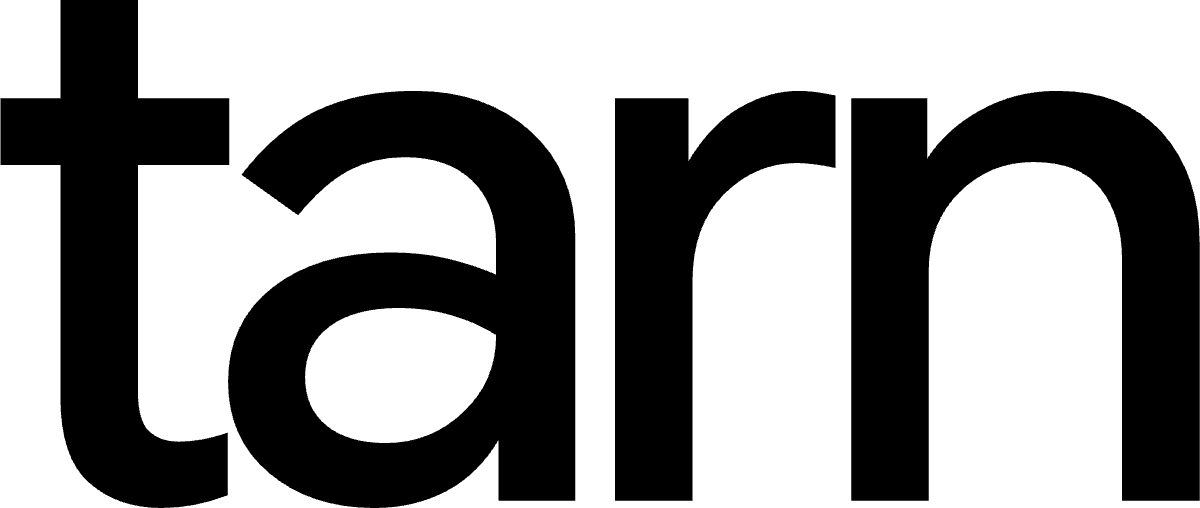
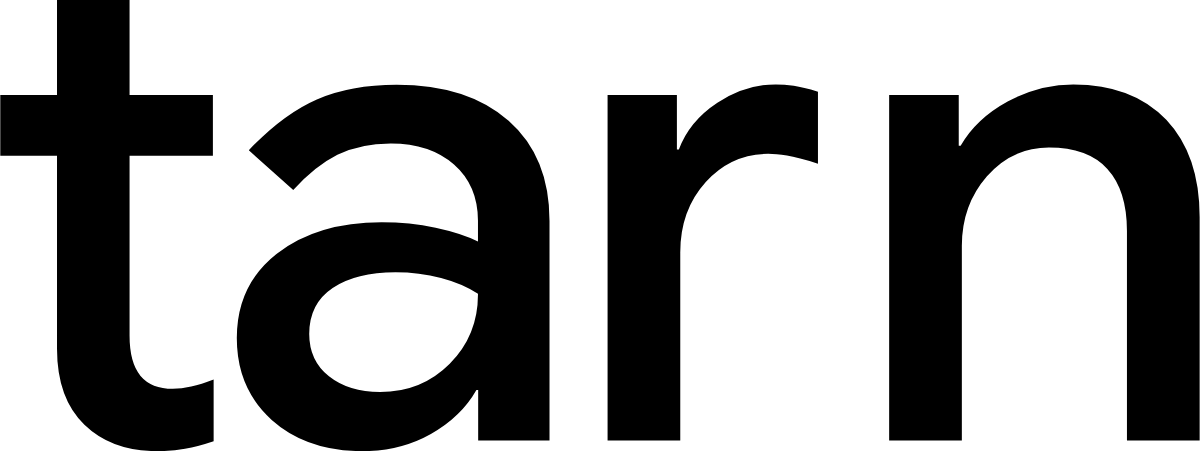
Wordmark that never reads "tam" (#22)
Wordmark: text optical size and a wider r–n gap, so it never reads "tam"

The wordmark is now drawn from Google Sans Flex at opsz 32 with +0.06em
before the n (was opsz 144, +0.012em). Blurred to simulate distance, the
old rn was nearly identical to an m (score 2.3, m vs n = 20); the new one
scores 12.8 and reads "tarn" from across the room. Same font, no tuning.

build_logo.py now also runs from the bundled font subset (glyphs by id,
only the axes the font has); it reproduces every existing asset byte for
byte. The ta mark is unchanged.

diff --git a/src/ui/wordmark.ts b/src/ui/wordmark.ts
@@ -7,12 +7,14 @@ import {html} from 'lit';
 
 // The outlined wordmark from docs/brand/assets/tarn-wordmark-mono.svg (built
 // by docs/brand/build_logo.py). Copy it from there; never retype or redraw it.
-const VIEW_BOX = '0.30 -65.40 156.60 66.35';
+const VIEW_BOX = '2.30 -65.40 178.05 66.95';
 const PATH =
-  'M21.28 0.95Q15.63 0.95 11.87 -2.35Q8.12 -5.64 8.12 -13.52V-65.4Q8.12 -65.4 8.12 -65.4Q8.12 -65.4 8.12 -65.4H18.25Q18.25 -65.4 18.25 -65.4Q18.25 -65.4 18.25 -65.4V-14.22Q18.25 -10.49 19.67 -9.1Q21.08 -7.71 23.55 -7.71Q25.03 -7.71 26.53 -7.98Q28.03 -8.24 29.97 -8.89Q29.97 -8.89 29.97 -8.89Q29.97 -8.89 29.97 -8.89V-0.71Q29.97 -0.71 29.97 -0.71Q29.97 -0.71 29.97 -0.71Q27.73 0.14 25.6 0.55Q23.48 0.95 21.28 0.95ZM0.29 -43.84Q0.29 -43.84 0.29 -43.84Q0.29 -43.84 0.29 -43.84V-52.58Q0.29 -52.58 0.29 -52.58Q0.29 -52.58 0.29 -52.58H30.18Q30.18 -52.58 30.18 -52.58Q30.18 -52.58 30.18 -52.58V-43.84Q30.18 -43.84 30.18 -43.84Q30.18 -43.84 30.18 -43.84Z ' +
-  'M49.1 0.95Q40.85 0.95 35.43 -3.57Q30.02 -8.1 30.02 -15.53Q30.02 -23.3 35.85 -27.87Q41.68 -32.43 51.2 -32.43Q55.27 -32.43 58.64 -31.63Q62.02 -30.83 65.03 -29.53V-33.58Q65.03 -38.85 61.85 -41.86Q58.67 -44.87 53.1 -44.87Q48.98 -44.87 45.69 -43.07Q42.4 -41.28 39.18 -37.28Q39.18 -37.28 39.18 -37.28Q39.18 -37.28 39.18 -37.28L31.77 -42.58Q31.77 -42.58 31.77 -42.58Q31.77 -42.58 31.77 -42.58Q36.28 -48.43 41.68 -50.98Q47.08 -53.53 54.45 -53.53Q63.7 -53.53 69.54 -48.25Q75.38 -42.97 75.38 -34.3V0Q75.38 0 75.38 0Q75.38 0 75.38 0H65.33Q65.33 0 65.33 0Q65.33 0 65.33 0V-10.33L67.5 -7.98H65.37Q62.78 -3.53 58.61 -1.29Q54.43 0.95 49.1 0.95ZM50.63 -7.53Q56.5 -7.53 60.77 -11.59Q65.03 -15.65 65.03 -21.52V-21.63Q62.7 -23.18 59.37 -24.18Q56.03 -25.18 52.38 -25.18Q46.57 -25.18 43.33 -22.79Q40.08 -20.4 40.08 -16.17Q40.08 -12.08 42.88 -9.81Q45.68 -7.53 50.63 -7.53Z ' +
-  'M80.55 0Q80.55 0 80.55 0Q80.55 0 80.55 0V-52.58Q80.55 -52.58 80.55 -52.58Q80.55 -52.58 80.55 -52.58H90.15Q90.15 -52.58 90.15 -52.58Q90.15 -52.58 90.15 -52.58V-43.62L89.59 -44.33H90.15Q93 -49.1 96.81 -51.32Q100.62 -53.53 104.57 -53.53Q105.34 -53.53 106.43 -53.42Q107.51 -53.3 109.35 -52.93Q109.35 -52.93 109.35 -52.93Q109.35 -52.93 109.35 -52.93V-43.46Q109.35 -43.46 109.35 -43.46Q109.35 -43.46 109.35 -43.46Q107.68 -43.83 106.39 -43.97Q105.11 -44.11 104.31 -44.11Q98.88 -44.11 94.78 -40.02Q90.68 -35.93 90.68 -28.62V0Q90.68 0 90.68 0Q90.68 0 90.68 0Z ' +
-  'M111.4 0V-52.58Q111.4 -52.58 111.4 -52.58Q111.4 -52.58 111.4 -52.58H121.35Q121.35 -52.58 121.35 -52.58Q121.35 -52.58 121.35 -52.58V-43.28L120.05 -44.61H121.28Q123.78 -48.52 128.32 -51.03Q132.87 -53.53 138.32 -53.53Q147.08 -53.53 152 -48.11Q156.92 -42.68 156.92 -33.64V0Q156.92 0 156.92 0Q156.92 0 156.92 0H146.78Q146.78 0 146.78 0Q146.78 0 146.78 0V-31.5Q146.78 -37.16 144.03 -40.7Q141.27 -44.24 135.16 -44.24Q129.54 -44.24 125.54 -40.28Q121.53 -36.32 121.53 -29.92V0Q121.53 0 121.53 0Q121.53 0 121.53 0H111.4Q111.4 0 111.4 0Q111.4 0 111.4 0Z';
+  'M25.62 1.57Q18.86 1.57 14.79 -2.36Q10.72 -6.29 10.72 -13.64V-65.4Q10.72 -65.4 10.72 -65.4Q10.72 -65.4 10.72 -65.4H21.49Q21.49 -65.4 21.49 -65.4Q21.49 -65.4 21.49 -65.4V-15.58Q21.49 -11.51 23.12 -9.6Q24.74 -7.69 27.91 -7.69Q29.17 -7.69 30.64 -8.02Q32.12 -8.34 33.97 -9.05Q33.97 -9.05 33.97 -9.05Q33.97 -9.05 33.97 -9.05V0.11Q33.97 0.11 33.97 0.11Q33.97 0.11 33.97 0.11Q31.64 0.9 29.72 1.23Q27.79 1.57 25.62 1.57Z ' +
+  'M2.3 -42.27Q2.3 -42.27 2.3 -42.27Q2.3 -42.27 2.3 -42.27V-51.29Q2.3 -51.29 2.3 -51.29Q2.3 -51.29 2.3 -51.29H33.86Q33.86 -51.29 33.86 -51.29Q33.86 -51.29 33.86 -51.29V-42.27Q33.86 -42.27 33.86 -42.27Q33.86 -42.27 33.86 -42.27Z ' +
+  'M56.12 1.57Q47.78 1.57 42.59 -3.07Q37.41 -7.71 37.41 -15.21Q37.41 -23.14 43.4 -27.77Q49.39 -32.4 58.9 -32.4Q63.1 -32.4 66.92 -31.59Q70.74 -30.77 73.21 -29.55V-32.62Q73.21 -37.87 69.65 -40.99Q66.09 -44.11 60.28 -44.11Q55.72 -44.11 52.34 -42.42Q48.96 -40.72 45.79 -37.18Q45.79 -37.18 45.79 -37.18Q45.79 -37.18 45.79 -37.18L39.19 -43.1Q39.19 -43.1 39.19 -43.1Q39.19 -43.1 39.19 -43.1Q44.27 -48.45 49.29 -50.64Q54.31 -52.82 61.14 -52.82Q71.7 -52.82 77.76 -47.47Q83.83 -42.12 83.83 -32.61V0Q83.83 0 83.83 0Q83.83 0 83.83 0H73.24Q73.24 0 73.24 0Q73.24 0 73.24 0V-11.76L76.16 -7.49H72.98Q70.72 -3.5 66.22 -0.97Q61.72 1.57 56.12 1.57Z ' +
+  'M58.68 -7.21Q64.84 -7.21 69.02 -11.41Q73.21 -15.61 73.21 -21.69V-21.8Q70.96 -23.3 67.73 -24.15Q64.49 -24.99 60.96 -24.99Q55.13 -24.99 51.64 -22.66Q48.16 -20.33 48.16 -15.83Q48.16 -11.88 51.09 -9.54Q54.02 -7.21 58.68 -7.21Z ' +
+  'M92.45 0Q92.45 0 92.45 0Q92.45 0 92.45 0V-51.29Q92.45 -51.29 92.45 -51.29Q92.45 -51.29 92.45 -51.29H102.74Q102.74 -51.29 102.74 -51.29Q102.74 -51.29 102.74 -51.29V-41.93L101.42 -43.19H103.03Q104.59 -47.4 108.75 -50.14Q112.9 -52.87 117.41 -52.87Q118.68 -52.87 120.09 -52.66Q121.49 -52.46 123.68 -51.78Q123.68 -51.78 123.68 -51.78Q123.68 -51.78 123.68 -51.78V-41.1Q123.68 -41.1 123.68 -41.1Q123.68 -41.1 123.68 -41.1Q120.71 -42.03 119.08 -42.3Q117.44 -42.57 116.28 -42.57Q110.83 -42.57 107.03 -38.4Q103.24 -34.22 103.24 -27.95V0Q103.24 0 103.24 0Q103.24 0 103.24 0Z ' +
+  'M134.25 0V-51.29Q134.25 -51.29 134.25 -51.29Q134.25 -51.29 134.25 -51.29H144.58Q144.58 -51.29 144.58 -51.29Q144.58 -51.29 144.58 -51.29V-42.12L143.18 -43.75H144.86Q147.18 -47.78 151.84 -50.32Q156.49 -52.87 161.59 -52.87Q170.44 -52.87 175.39 -47.61Q180.34 -42.36 180.34 -33.18V0Q180.34 0 180.34 0Q180.34 0 180.34 0H169.55Q169.55 0 169.55 0Q169.55 0 169.55 0V-31.1Q169.55 -37.15 166.64 -40.32Q163.73 -43.49 157.97 -43.49Q152.49 -43.49 148.77 -39.22Q145.04 -34.95 145.04 -28.89V0Q145.04 0 145.04 0Q145.04 0 145.04 0H134.25Q134.25 0 134.25 0Q134.25 0 134.25 0Z';
 
 /** The `tarn` wordmark in currentColor, sized by the caller's CSS height. */
 export const wordmark = (label = 'Tarn') => html`

diff --git a/docs/brand/build_logo.py b/docs/brand/build_logo.py
@@ -8,9 +8,11 @@ unless the brand itself changes. Everything that defines the marks lives in
 the constants below; docs/brand/BRAND.md explains each one.
 
 Setup (any Python 3.10+):
-    python3 -m venv .venv && .venv/bin/pip install fonttools uharfbuzz
+    python3 -m venv .venv && .venv/bin/pip install fonttools uharfbuzz brotli
 Font: Google Sans Flex variable TTF from Google Fonts (SIL OFL 1.1), e.g.
     https://github.com/google/fonts/tree/main/ofl/googlesansflex
+or the bundled subset converted to TTF (same outlines; needs `brotli`):
+    .venv/bin/python -c "from fontTools.ttLib import TTFont; f = TTFont('public/fonts/google-sans-flex-latin.woff2'); f.flavor = None; f.save('GoogleSansFlex.ttf')"
 Run:
     .venv/bin/python docs/brand/build_logo.py --font GoogleSansFlex.ttf
 """
@@ -48,18 +50,30 @@ MARK = {
 # optical size, whose wider counters keep the "a" open at toolbar size.
 MARK_SMALL = {**MARK, 'opsz': 18}
 
-# The wordmark: lowercase "tarn", with a hair more space before the "n" so
-# "rn" never reads as "m".
+# The wordmark: lowercase "tarn", drawn from the font's text optical size
+# with extra space before the "n", so "rn" never reads as "m" from a
+# distance. The display size (144) and a hair of gap read "tam" (measured
+# 2026-10-13; docs/brand/BRAND.md, "The r-n rule").
 WORDMARK = {
     'text': 'tarn',
     'weight': 500,
     'size': 100,
+    'opsz': 32,
     'tracking': -0.03,  # em, between every letter
-    'rn_gap': 0.012,  # em, added between "r" and "n" only
+    'rn_gap': 0.06,  # em, added between "r" and "n" only
     'pad': 0,  # extra space around the ink; clear space lives in BRAND.md
 }
 
 HEADER = '<!-- Tarn brand asset. Built by docs/brand/build_logo.py; see docs/brand/BRAND.md. -->\n'
+
+
+def axes(font_path, weight, opsz):
+  """The default design at this weight and optical size, limited to the axes
+  the font has (the bundled subset in public/fonts/ pins all but wght and
+  opsz to their defaults, so it draws the same outlines)."""
+  tags = {a.axisTag for a in TTFont(str(font_path))['fvar'].axes}
+  return {k: v for k, v in {**BASE_AXES, 'opsz': opsz, 'wght': weight}.items()
+          if k in tags}
 
 
 def shape(font_path, text, weight, opsz=144):
@@ -67,12 +81,14 @@ def shape(font_path, text, weight, opsz=144):
   blob = hb.Blob.from_file_path(str(font_path))
   face = hb.Face(blob)
   font = hb.Font(face)
-  font.set_variations({**BASE_AXES, 'opsz': opsz, 'wght': weight})
+  font.set_variations(axes(font_path, weight, opsz))
   buf = hb.Buffer()
   buf.add_str(text)
   buf.guess_segment_properties()
   hb.shape(font, buf, {'kern': True, 'liga': True})
-  names = [font.glyph_to_string(i.codepoint) for i in buf.glyph_infos]
+  # Glyph ids, not HarfBuzz's names: the subset has no glyph names.
+  order = TTFont(str(font_path)).getGlyphOrder()
+  names = [order[i.codepoint] for i in buf.glyph_infos]
   return [(n, p.x_advance, p.x_offset, p.y_offset)
           for n, p in zip(names, buf.glyph_positions)]
 
@@ -80,7 +96,7 @@ def shape(font_path, text, weight, opsz=144):
 def instance(font_path, weight, opsz=144):
   from fontTools.varLib.instancer import instantiateVariableFont
   font = TTFont(str(font_path))
-  return instantiateVariableFont(font, {**BASE_AXES, 'opsz': opsz, 'wght': weight})
+  return instantiateVariableFont(font, axes(font_path, weight, opsz))
 
 
 def outline(font, glyphs, size, x, baseline, tracking, extra=None):
@@ -139,8 +155,8 @@ def build_mark(font_path, out, m=MARK, suffix=''):
 
 def build_wordmark(font_path, out):
   w = WORDMARK
-  font = instance(font_path, w['weight'])
-  glyphs = shape(font_path, w['text'], w['weight'])
+  font = instance(font_path, w['weight'], w['opsz'])
+  glyphs = shape(font_path, w['text'], w['weight'], w['opsz'])
   n_index = w['text'].index('n')
   d, (x0, y0, x1, y1) = outline(font, glyphs, w['size'], 0, 0, w['tracking'],
                                 extra={n_index: w['rn_gap']})

diff --git a/docs/brand/BRAND.md b/docs/brand/BRAND.md
@@ -47,18 +47,26 @@ The primary and usually only brand element.
 
 ![wordmark](assets/png/wordmark/tarn-wordmark-black-1200.png)
 
-| Spec     | Value                                                                        |
-| -------- | ---------------------------------------------------------------------------- |
-| Text     | `tarn`, lowercase                                                            |
-| Font     | Google Sans Flex, default design: `wdth 100`, `ROND 0`, `slnt 0`, `opsz 144` |
-| Weight   | 500                                                                          |
-| Tracking | −0.03em between letters                                                      |
-| r–n gap  | +0.012em extra before the `n` (see below)                                    |
-| Files    | `assets/tarn-wordmark.svg` (black), `-white.svg`, `-mono.svg` (currentColor) |
+| Spec     | Value                                                                                                  |
+| -------- | ------------------------------------------------------------------------------------------------------ |
+| Text     | `tarn`, lowercase                                                                                      |
+| Font     | Google Sans Flex, default design: `wdth 100`, `ROND 0`, `slnt 0`, `opsz 32` (the text size, see below) |
+| Weight   | 500                                                                                                    |
+| Tracking | −0.03em between letters                                                                                |
+| r–n gap  | +0.06em extra before the `n` (see below)                                                               |
+| Files    | `assets/tarn-wordmark.svg` (black), `-white.svg`, `-mono.svg` (currentColor)                           |
 
 - **The r–n rule.** Squeezed together, `rn` reads as `m` and "tarn" becomes
-  "tam". The extra gap before the `n` prevents that. Never tighten it, and
-  never retype the wordmark as live text in a logo context; use the SVG.
+  "tam". Two settings prevent it, and both are needed: the font's text
+  optical size (`opsz 32`), which gives every letter more room than the
+  display size (`opsz 144`), and +0.06em before the `n`. Measured on
+  2026-10-13 (each word blurred as distance blurs it, its `rn` compared
+  pixel by pixel with an `m`, 0 = identical, `m` vs `n` = 20): the old
+  wordmark (`opsz 144`, +0.012em) scored 2.3 and read "tam"; a bigger gap
+  alone at `opsz 144` only reached 5.3; this one scores 12.8 and reads
+  "tarn" from across the room. Never tighten it, never go back to the
+  display size, and never retype the wordmark as live text in a logo
+  context; use the SVG.
 - **Clear space:** at least the height of the `a` on every side.
 - **Minimum size:** 48px wide on screen, 12mm in print.
 - **Color:** pure black on light backgrounds, pure white on dark ones, or one
@@ -263,9 +271,13 @@ docs/brand/
 To regenerate (only if the brand changes, with the owner's approval):
 
 ```bash
-python3 -m venv .venv && .venv/bin/pip install fonttools uharfbuzz
+python3 -m venv .venv && .venv/bin/pip install fonttools uharfbuzz brotli
 .venv/bin/python docs/brand/build_logo.py --font path/to/GoogleSansFlex[ROND,opsz,slnt,wdth,wght].ttf
 ```
+
+The bundled subset in `public/fonts/` draws the same outlines (verified
+byte for byte on 2026-10-13); the script's docstring shows how to convert it
+to a TTF.
 
 The script shapes text with HarfBuzz, so kerning matches what browsers draw,
 then outlines it with fontTools. Re-export the PNGs from the SVGs afterward at
@@ -298,23 +310,26 @@ background works), and copy the extension set into `public/action/` and
 
 Everything below was shown to the owner on 2026-10-10 and 2026-10-11.
 
-| Option                                        | Outcome                 | Why                                                             |
-| --------------------------------------------- | ----------------------- | --------------------------------------------------------------- |
-| Albert Sans wordmark                          | Replaced                | The owner preferred Google Sans Flex once it proved legal       |
-| Google Sans Flex, roundness 60 ("soft")       | **Rejected**            | The owner: default only, not soft                               |
-| "Still" symbol (half sun over its reflection) | Retired                 | The owner chose text over a pictorial symbol                    |
-| Glowing horizon line icon (the original)      | Retired                 | Read as a minus sign                                            |
-| Wordmark with an underline                    | Rejected                | Reads as a link; as an icon it shrinks to a minus sign          |
-| Plain `t` in a square                         | Not adopted             | Clear, but generic                                              |
-| `ta / rn` stacked (American Express style)    | Not adopted             | Great at 128px, mush at 16px; `rn` reads `m`                    |
-| `ta / rn` outlined                            | Rejected                | Thin strokes vanish below 48px                                  |
-| `tarn` bleeding off the square                | Rejected                | Reads "tam"                                                     |
-| `t` or `ta` at a waterline with a reflection  | Rejected                | The `t` reads as a cross                                        |
-| Glacier-blue mark, blue-grey (Granite) ink    | Replaced 2026-10-12     | The owner: black and white, not grey-ish                        |
-| Small optical size (opsz 18) for 16–32px      | Adopted 2026-10-12      | Keeps the `a` open in the toolbar                               |
-| **`ta`, `a` cut in half**                     | **Adopted**             | The owner: "super sick". Bold at 16px, abstract, still the name |
-| Pearl iridescent scene                        | **Rejected**            | Washed out                                                      |
-| Dispersed-light prism scene (light and dark)  | **Rejected**            | The owner: forget prism entirely                                |
-| Full rainbow, rainbow UI glow                 | Rejected                | Loud, reads as an AI feature                                    |
-| All caps TARN                                 | Rejected                | Loud; Google never caps product names                           |
-| Dark-first brand                              | Replaced by light first | Matches the browser around the tab                              |
+| Option                                        | Outcome                 | Why                                                                |
+| --------------------------------------------- | ----------------------- | ------------------------------------------------------------------ |
+| Albert Sans wordmark                          | Replaced                | The owner preferred Google Sans Flex once it proved legal          |
+| Google Sans Flex, roundness 60 ("soft")       | **Rejected**            | The owner: default only, not soft                                  |
+| "Still" symbol (half sun over its reflection) | Retired                 | The owner chose text over a pictorial symbol                       |
+| Glowing horizon line icon (the original)      | Retired                 | Read as a minus sign                                               |
+| Wordmark with an underline                    | Rejected                | Reads as a link; as an icon it shrinks to a minus sign             |
+| Plain `t` in a square                         | Not adopted             | Clear, but generic                                                 |
+| `ta / rn` stacked (American Express style)    | Not adopted             | Great at 128px, mush at 16px; `rn` reads `m`                       |
+| `ta / rn` outlined                            | Rejected                | Thin strokes vanish below 48px                                     |
+| `tarn` bleeding off the square                | Rejected                | Reads "tam"                                                        |
+| `t` or `ta` at a waterline with a reflection  | Rejected                | The `t` reads as a cross                                           |
+| Glacier-blue mark, blue-grey (Granite) ink    | Replaced 2026-10-12     | The owner: black and white, not grey-ish                           |
+| Small optical size (opsz 18) for 16–32px      | Adopted 2026-10-12      | Keeps the `a` open in the toolbar                                  |
+| Wordmark at `opsz 144`, +0.012em before `n`   | Replaced 2026-10-13     | The owner: "looks like tam in far distance". Measured: it did      |
+| Renaming (loch, lampi, kelda) or a new font   | Not adopted 2026-10-13  | The owner keeps the name; a fix inside Google Sans Flex was enough |
+| Wordmark at `opsz 32`, +0.06em before `n`     | **Adopted** 2026-10-13  | Reads "tarn" far away and keeps today's look ("B" of four)         |
+| **`ta`, `a` cut in half**                     | **Adopted**             | The owner: "super sick". Bold at 16px, abstract, still the name    |
+| Pearl iridescent scene                        | **Rejected**            | Washed out                                                         |
+| Dispersed-light prism scene (light and dark)  | **Rejected**            | The owner: forget prism entirely                                   |
+| Full rainbow, rainbow UI glow                 | Rejected                | Loud, reads as an AI feature                                       |
+| All caps TARN                                 | Rejected                | Loud; Google never caps product names                              |
+| Dark-first brand                              | Replaced by light first | Matches the browser around the tab                                 |

diff --git a/CHANGELOG.md b/CHANGELOG.md
@@ -54,3 +54,8 @@ follow [Semantic Versioning](https://semver.org/).
   long-lived tabs, self-healing warm process.
 - Take-over page that switches off other new-tab extensions (optional
   `management` permission) and restores them when Tarn is turned off.
+
+### Changed
+
+- The wordmark reads "tarn" from a distance, not "tam": it is drawn from
+  Google Sans Flex's text size with a little more room before the n.
